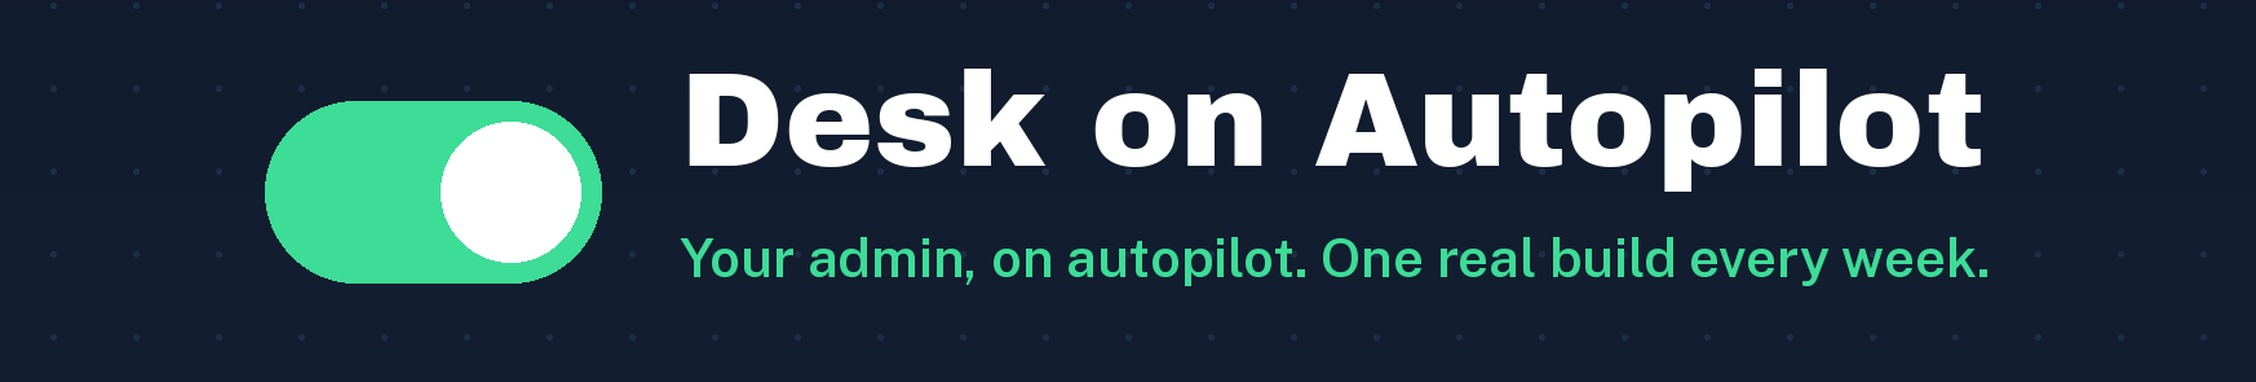
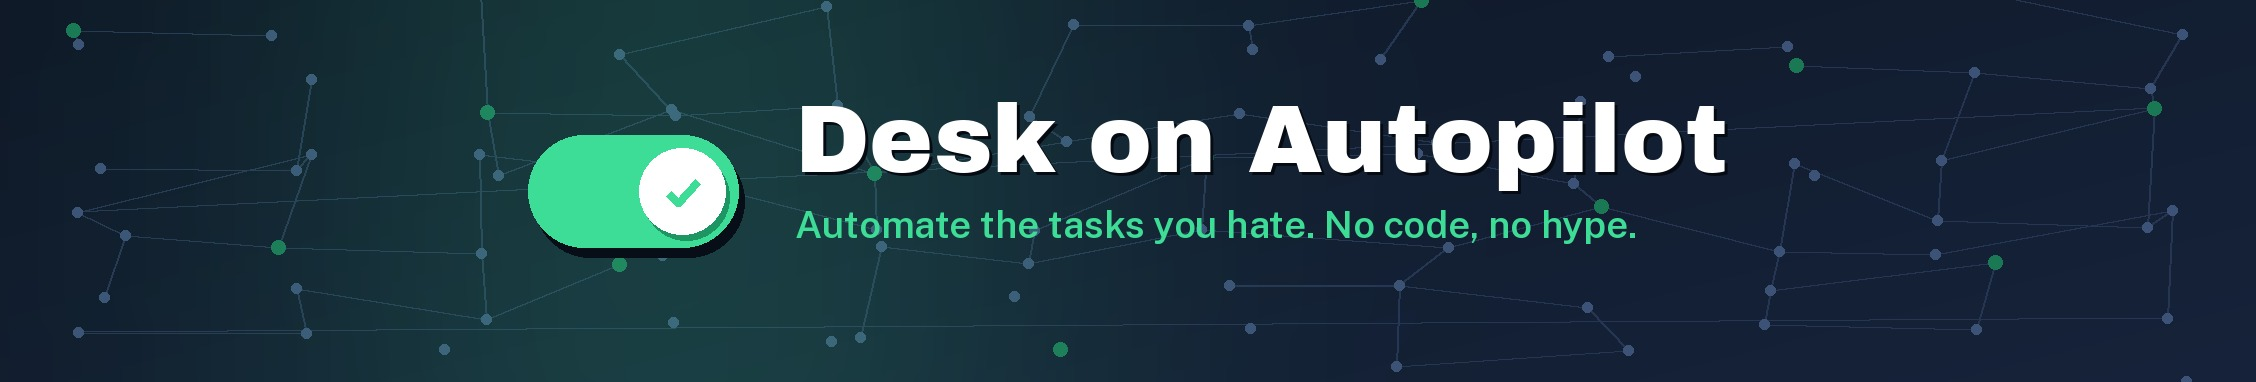
Redesign Desk on Autopilot artwork with new tagline
New banner, profile picture, watermark, LinkedIn cover and logo with
the tagline 'Automate the tasks you hate. No code, no hype.' and a
node-graph background. Add the generator script.

Claude-Session: https://claude.ai/code/session_016RZxmchxQcwP75DfTta8WH

diff --git a/docs/channel-playbook.html b/docs/channel-playbook.html
@@ -496,7 +496,7 @@ New stories twice a week.</textarea></div>
           <tr><th>Item</th><th>Lock</th></tr>
           <tr><td>Audience</td><td>Owners and managers of small service businesses, age 28 to 50, not technical. US, UK, Canada, Australia, and English-speaking India.</td></tr>
           <tr><td>Promise</td><td>One real task automated with AI per video, start to finish, no coding needed.</td></tr>
-          <tr><td>Banner line</td><td>Your admin, on autopilot. One real build every week.</td></tr>
+          <tr><td>Banner line</td><td>Automate the tasks you hate. No code, no hype.</td></tr>
           <tr><td>About text</td><td>Every video automates one real task with AI tools, recorded start to finish on screen. No hype, no face, just the build. Narration may use an AI voice, disclosed on each video. Templates for every build are linked in the description.</td></tr>
         </table></div>
       </div></li>

diff --git a/channel-assets/_source/make_desk_art.py b/channel-assets/_source/make_desk_art.py
@@ -1,0 +1,103 @@
+import math, random
+from PIL import Image, ImageDraw, ImageFont, ImageFilter
+F="fonts/"; OUT="/home/user/GauravAI/channel-assets/desk-on-autopilot/"
+def font(name,size,w=None):
+    f=ImageFont.truetype(F+name,size)
+    if w is not None:
+        try: f.set_variation_by_axes([w])
+        except Exception: pass
+    return f
+NAVY=(14,23,38); NAVY2=(22,35,58); MINT=(61,220,151); MINT_D=(26,120,85); WHITE=(255,255,255); SOFT=(169,183,204); LINE=(38,54,82)
+TAG="Automate the tasks you hate. No code, no hype."
+
+def base(W,H):
+    img=Image.new("RGB",(W,H),NAVY); px=img.load()
+    for y in range(H):
+        for x in range(0,W):
+            t=(x/W*0.6+y/H*0.4)
+            px[x,y]=tuple(int(NAVY[i]+(NAVY2[i]-NAVY[i])*t) for i in range(3))
+    return img
+
+def node_graph(d,W,H,seed,alpha_lines=LINE,alpha_dots=(60,82,118),accent_every=7):
+    rnd=random.Random(seed); pts=[]
+    cols=12; rows=7
+    for r in range(rows):
+        for c in range(cols):
+            x=int((c+0.5)*W/cols+rnd.uniform(-40,40)); y=int((r+0.5)*H/rows+rnd.uniform(-40,40)); pts.append((x,y))
+    for i,(x,y) in enumerate(pts):
+        for j in (i+1,i+cols):
+            if j<len(pts) and rnd.random()<0.55:
+                d.line([pts[i],pts[j]],fill=alpha_lines,width=2)
+    for i,(x,y) in enumerate(pts):
+        r=5 if i%accent_every else 7
+        col=MINT_D if i%accent_every==0 else alpha_dots
+        d.ellipse([x-r,y-r,x+r,y+r],fill=col)
+
+def glow(img,cx,cy,rx,ry,strength=90,color=MINT):
+    m=Image.new("L",img.size,0); ImageDraw.Draw(m).ellipse([cx-rx,cy-ry,cx+rx,cy+ry],fill=strength)
+    m=m.filter(ImageFilter.GaussianBlur(rx/2))
+    return Image.composite(Image.new("RGB",img.size,color),img,m)
+
+def toggle(d,cx,cy,w,h):
+    r=h//2
+    d.rounded_rectangle([cx-w//2+6,cy-h//2+10,cx+w//2+6,cy+h//2+10],radius=r,fill=(8,14,24))  # shadow
+    d.rounded_rectangle([cx-w//2,cy-h//2,cx+w//2,cy+h//2],radius=r,fill=MINT)
+    kx=cx+w//2-r; m=int(h*0.12)
+    d.ellipse([kx-r+m+4,cy-r+m+6,kx+r-m+4,cy+r-m+6],fill=(30,150,100))
+    d.ellipse([kx-r+m,cy-r+m,kx+r-m,cy+r-m],fill=WHITE)
+    # "ON" tick inside knob
+    d.line([(kx-14,cy+2),(kx-4,cy+12),(kx+16,cy-10)],fill=MINT,width=8,joint="curve")
+
+def pill(d,x,y,text,f,fg=MINT,bg=(20,60,48)):
+    w=d.textlength(text,font=f); h=f.size+18
+    d.rounded_rectangle([x,y,x+w+36,y+h],radius=h//2,fill=bg,outline=MINT_D,width=2)
+    d.text((x+18,y+8),text,font=f,fill=fg)
+    return w+36
+
+# ---------- YouTube banner 2560x1440 ----------
+W,H=2560,1440
+img=base(W,H); d=ImageDraw.Draw(img)
+node_graph(d,W,H,11)
+img=glow(img,int(W*0.33),H//2,520,300,70)
+d=ImageDraw.Draw(img)
+tf=font("ArchivoBlack-Regular.ttf",112); sf=font("PublicSans[wght].ttf",44,600); pf=font("PublicSans[wght].ttf",26,700)
+T="Desk on Autopilot"
+tw=d.textlength(T,font=tf); sw=d.textlength(TAG,font=sf)
+iw=250; gap=64; block=iw+gap+max(tw,sw)
+gx=(W-block)/2
+toggle(d,int(gx+iw/2),H//2-10,iw,136)
+tx=gx+iw+gap
+d.text((tx+4,H//2-126+4),T,font=tf,fill=(6,10,18))
+d.text((tx,H//2-126),T,font=tf,fill=WHITE)
+d.text((tx,H//2+22),TAG,font=sf,fill=MINT)
+# pills row under tagline
+px=tx; py=H//2+96
+for t in ["n8n","Google Sheets","AI","Free templates"]:
+    px+=pill(d,px,py,t,pf)+14
+img.save(OUT+"banner-2560x1440.png",optimize=True)
+
+# ---------- profile 800 ----------
+im=base(800,800); d=ImageDraw.Draw(im)
+node_graph(d,800,800,5,accent_every=5)
+im=glow(im,400,380,300,300,80); d=ImageDraw.Draw(im)
+d.ellipse([70,70,730,730],fill=NAVY2,outline=MINT_D,width=6)
+toggle(d,400,370,400,210)
+f=font("PublicSans[wght].ttf",52,800)
+t="AUTOPILOT"; w=sum(d.textlength(c,font=f) for c in t)+7*(len(t)-1); x=400-w/2
+for c in t: d.text((x,515),c,font=f,fill=SOFT); x+=d.textlength(c,font=f)+7
+im.save(OUT+"profile-800.png")
+im.resize((150,150),Image.LANCZOS).save(OUT+"watermark-150.png")
+
+# ---------- LinkedIn cover 2256x382 and 1536x768 ----------
+for (cw,chh,name,tsize,ssize,iw,gap) in [(2256,382,"linkedin-cover-2256x382.jpg",96,38,210,56),(1536,768,"linkedin-cover-1536x768.jpg",92,36,200,52)]:
+    im=base(cw,chh); d=ImageDraw.Draw(im); node_graph(d,cw,chh,3)
+    im=glow(im,int(cw*0.3),chh//2,int(cw*0.18),chh//2,70); d=ImageDraw.Draw(im)
+    tf=font("ArchivoBlack-Regular.ttf",tsize); sf=font("PublicSans[wght].ttf",ssize,600)
+    tw=d.textlength(T,font=tf); sw=d.textlength(TAG,font=sf); block=iw+gap+max(tw,sw); gx=(cw-block)/2
+    toggle(d,int(gx+iw/2),chh//2,iw,int(iw*0.54))
+    tx=gx+iw+gap; ty=chh//2-tsize-8
+    d.text((tx+3,ty+3),T,font=tf,fill=(6,10,18)); d.text((tx,ty),T,font=tf,fill=WHITE)
+    d.text((tx,chh//2+10),TAG,font=sf,fill=MINT)
+    im.save(OUT+name,quality=92)
+im=Image.open(OUT+"profile-800.png").resize((400,400),Image.LANCZOS); im.save(OUT+"linkedin-logo-400.png")
+print("done")
